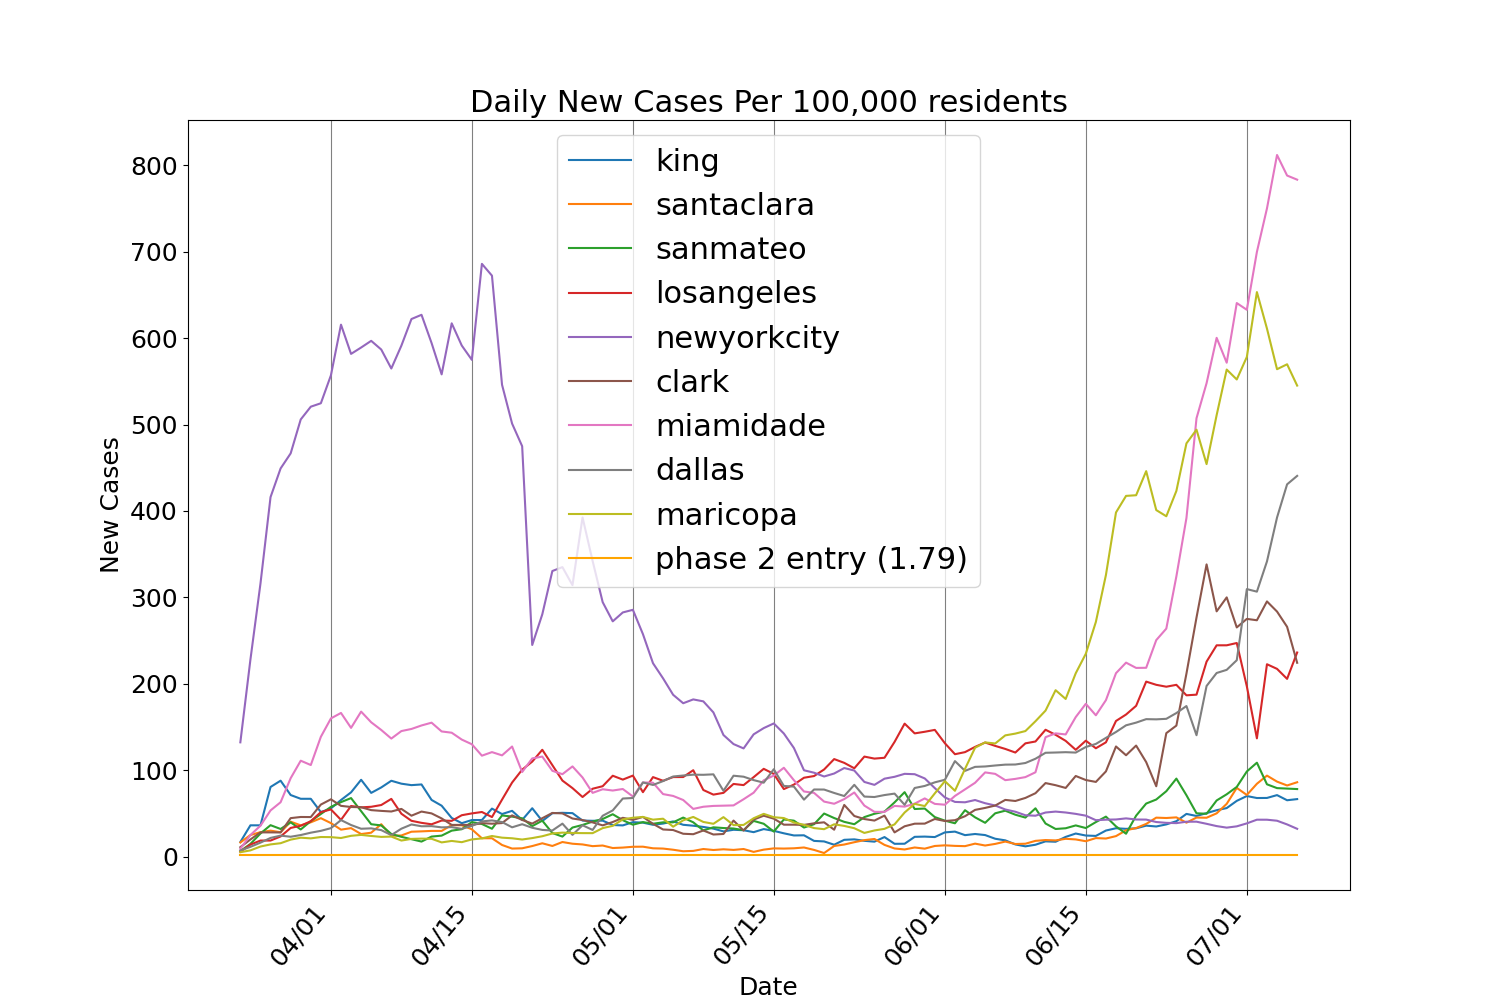
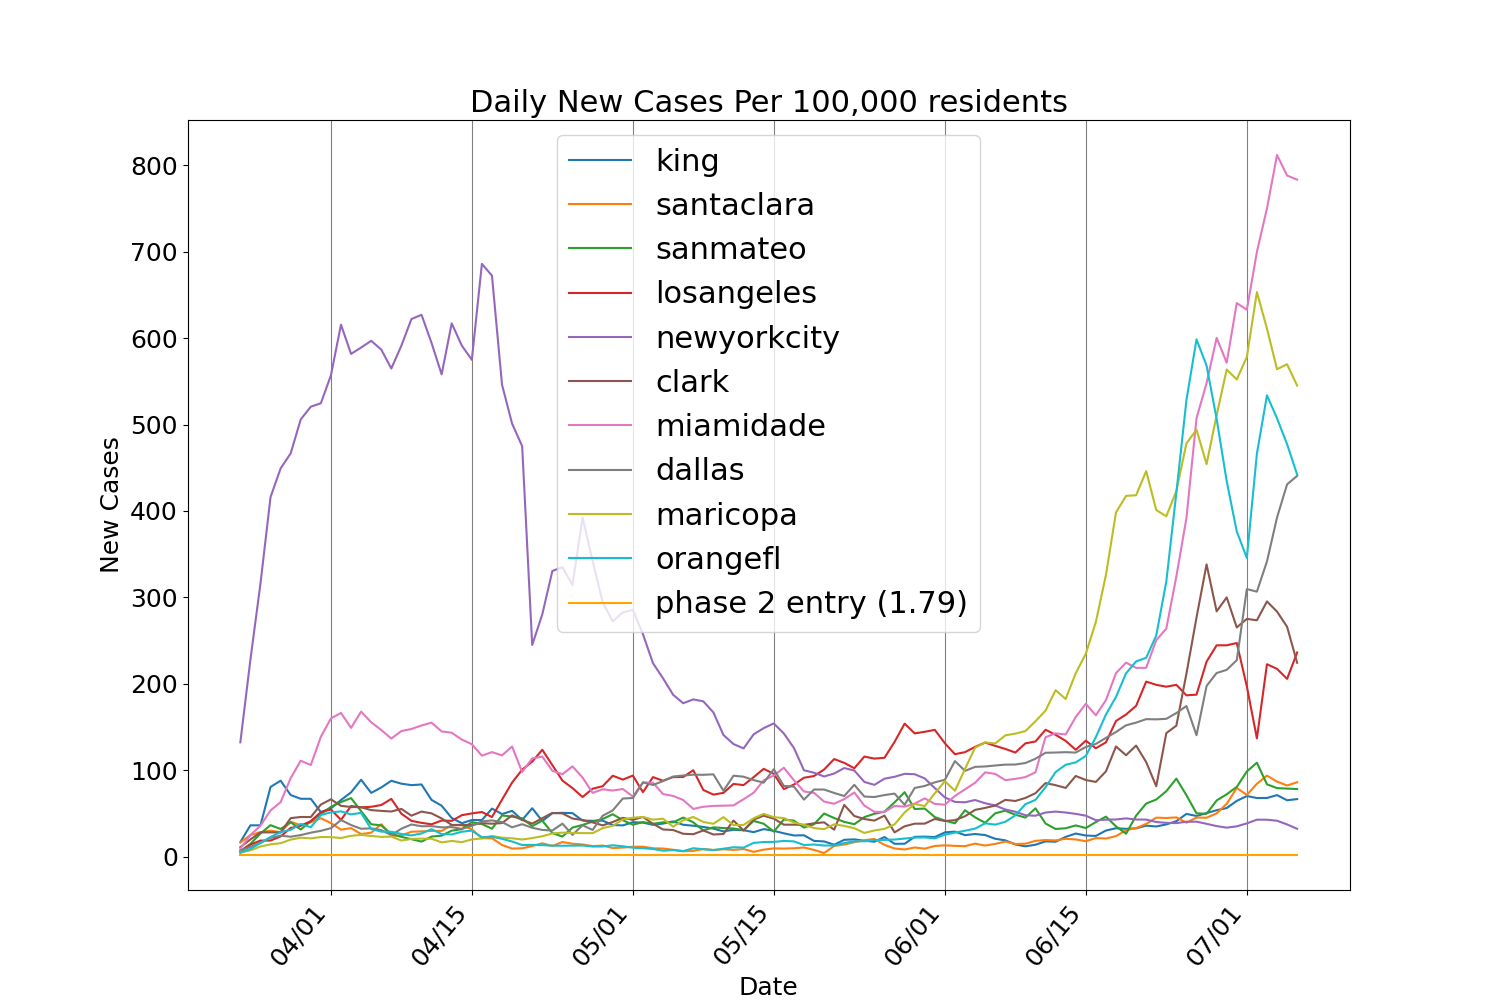
daily bot

diff --git a/docs/index.html b/docs/index.html
@@ -24,21 +24,97 @@
     <h2>Covid Daily New Cases</h2>
 
 <ul>
-
-Warning: Invalid argument supplied for foreach() in /Users/rogerhong/github/covid2/docs/index.php on line 33
+<li><a href="#king"> King County, Washington </a></li>
+<li><a href="#santaclara"> Santa Clara County, California </a></li>
+<li><a href="#sanmateo"> San Mateo County, California </a></li>
+<li><a href="#losangeles"> Los Angeles County, California </a></li>
+<li><a href="#newyorkcity"> New York City County, New York </a></li>
+<li><a href="#clark"> Clark County, Nevada </a></li>
+<li><a href="#miamidade"> Miami-Dade County, Florida </a></li>
+<li><a href="#dallas"> Dallas County, Texas </a></li>
+<li><a href="#maricopa"> Maricopa County, Arizona </a></li>
+<li><a href="#orangefl"> Orange County, Florida </a></li>
 </ul>
 
 <div class="row"><h4>All Counties</h4></div>
 
 <div class="row">
        <div class="col-6">
-            <a href="images/combine.png?1594153377">
-            <img src="images/combine.png?1594153377"></a>
+            <a href="images/combine.png?1594153419">
+            <img src="images/combine.png?1594153419"></a>
        </div>
 </div>
 
-Warning: Invalid argument supplied for foreach() in /Users/rogerhong/github/covid2/docs/index.php on line 57
-
+    <div class="row"><h4>King County</h4></div>
+    <div class="row">
+        <a name="king"></a>
+        <div class="col-6"><a href="images/king_1.png?1594153419"><img src="images/king_1.png?1594153419"></a></div>
+        <div class="col-6"><a href="images/king_2.png?1594153419"><img src="images/king_2.png?1594153419"></a></div>
+    </div>
+    
+    <div class="row"><h4>Santa Clara County</h4></div>
+    <div class="row">
+        <a name="santaclara"></a>
+        <div class="col-6"><a href="images/santaclara_1.png?1594153419"><img src="images/santaclara_1.png?1594153419"></a></div>
+        <div class="col-6"><a href="images/santaclara_2.png?1594153419"><img src="images/santaclara_2.png?1594153419"></a></div>
+    </div>
+    
+    <div class="row"><h4>San Mateo County</h4></div>
+    <div class="row">
+        <a name="sanmateo"></a>
+        <div class="col-6"><a href="images/sanmateo_1.png?1594153419"><img src="images/sanmateo_1.png?1594153419"></a></div>
+        <div class="col-6"><a href="images/sanmateo_2.png?1594153419"><img src="images/sanmateo_2.png?1594153419"></a></div>
+    </div>
+    
+    <div class="row"><h4>Los Angeles County</h4></div>
+    <div class="row">
+        <a name="losangeles"></a>
+        <div class="col-6"><a href="images/losangeles_1.png?1594153419"><img src="images/losangeles_1.png?1594153419"></a></div>
+        <div class="col-6"><a href="images/losangeles_2.png?1594153419"><img src="images/losangeles_2.png?1594153419"></a></div>
+    </div>
+    
+    <div class="row"><h4>New York City County</h4></div>
+    <div class="row">
+        <a name="newyorkcity"></a>
+        <div class="col-6"><a href="images/newyorkcity_1.png?1594153419"><img src="images/newyorkcity_1.png?1594153419"></a></div>
+        <div class="col-6"><a href="images/newyorkcity_2.png?1594153419"><img src="images/newyorkcity_2.png?1594153419"></a></div>
+    </div>
+    
+    <div class="row"><h4>Clark County</h4></div>
+    <div class="row">
+        <a name="clark"></a>
+        <div class="col-6"><a href="images/clark_1.png?1594153419"><img src="images/clark_1.png?1594153419"></a></div>
+        <div class="col-6"><a href="images/clark_2.png?1594153419"><img src="images/clark_2.png?1594153419"></a></div>
+    </div>
+    
+    <div class="row"><h4>Miami-Dade County</h4></div>
+    <div class="row">
+        <a name="miamidade"></a>
+        <div class="col-6"><a href="images/miamidade_1.png?1594153419"><img src="images/miamidade_1.png?1594153419"></a></div>
+        <div class="col-6"><a href="images/miamidade_2.png?1594153419"><img src="images/miamidade_2.png?1594153419"></a></div>
+    </div>
+    
+    <div class="row"><h4>Dallas County</h4></div>
+    <div class="row">
+        <a name="dallas"></a>
+        <div class="col-6"><a href="images/dallas_1.png?1594153419"><img src="images/dallas_1.png?1594153419"></a></div>
+        <div class="col-6"><a href="images/dallas_2.png?1594153419"><img src="images/dallas_2.png?1594153419"></a></div>
+    </div>
+    
+    <div class="row"><h4>Maricopa County</h4></div>
+    <div class="row">
+        <a name="maricopa"></a>
+        <div class="col-6"><a href="images/maricopa_1.png?1594153419"><img src="images/maricopa_1.png?1594153419"></a></div>
+        <div class="col-6"><a href="images/maricopa_2.png?1594153419"><img src="images/maricopa_2.png?1594153419"></a></div>
+    </div>
+    
+    <div class="row"><h4>Orange County</h4></div>
+    <div class="row">
+        <a name="orangefl"></a>
+        <div class="col-6"><a href="images/orangefl_1.png?1594153419"><img src="images/orangefl_1.png?1594153419"></a></div>
+        <div class="col-6"><a href="images/orangefl_2.png?1594153419"><img src="images/orangefl_2.png?1594153419"></a></div>
+    </div>
+    
   </div>
   </body>
 </html>
